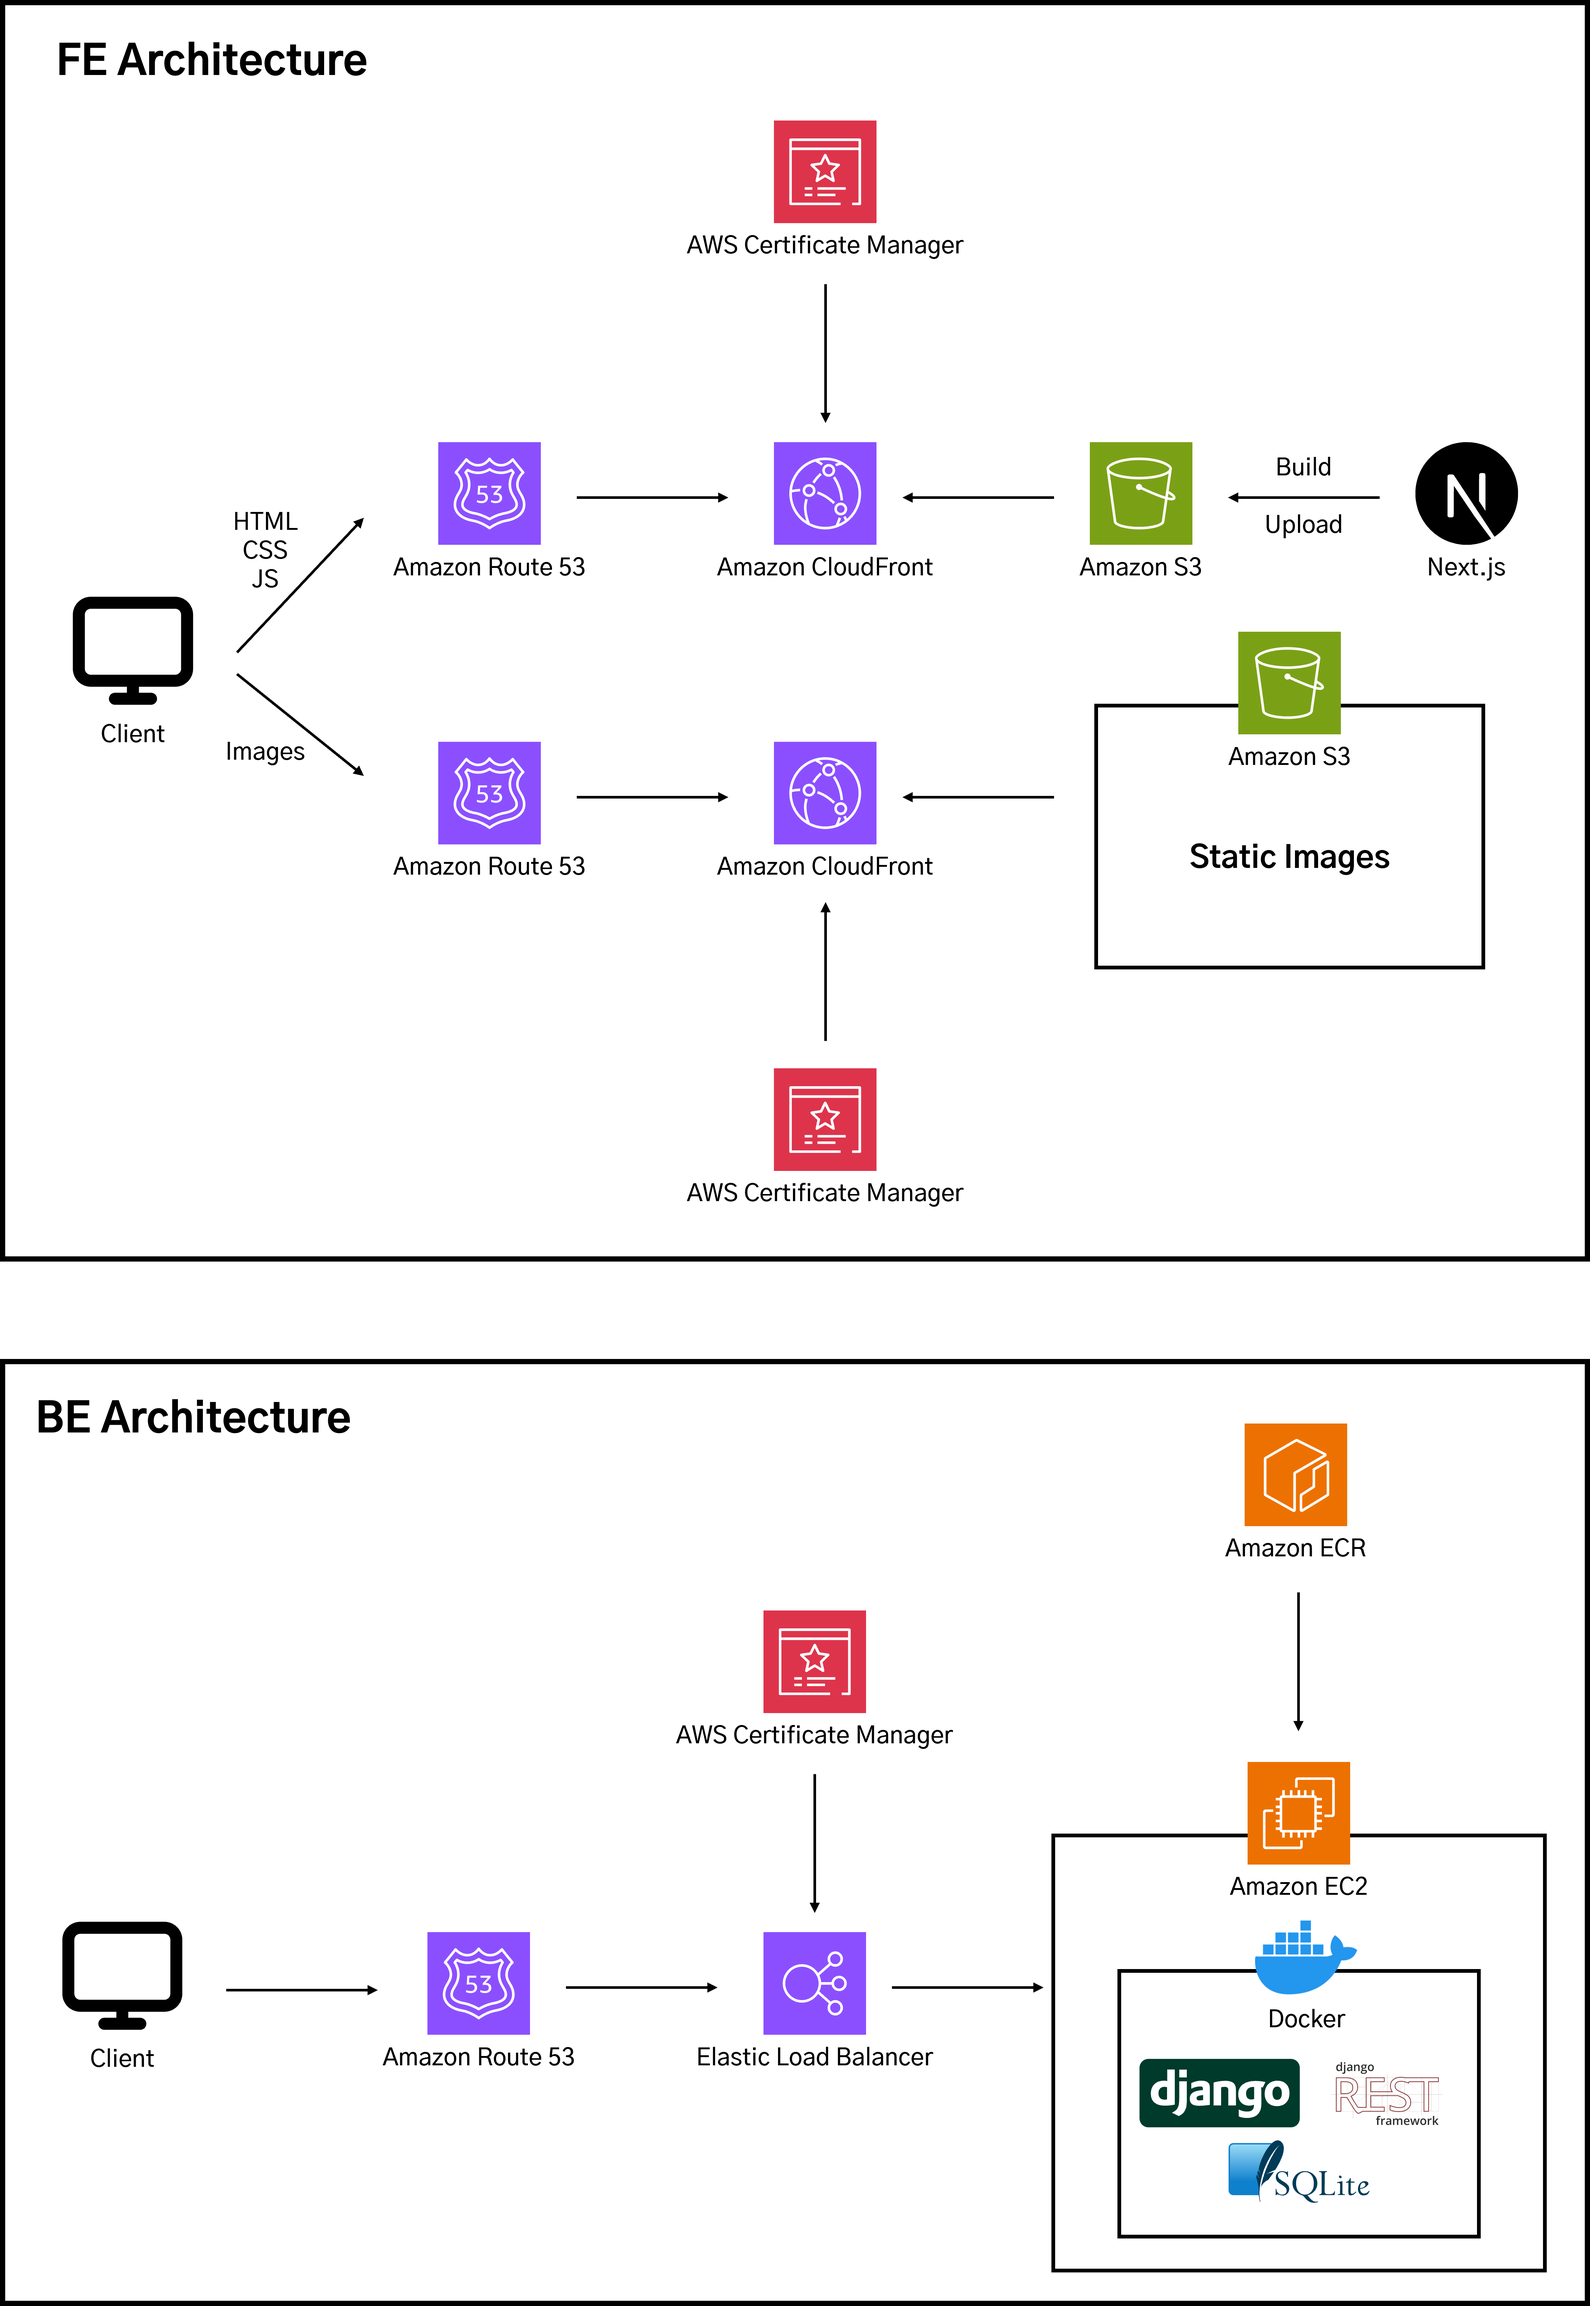
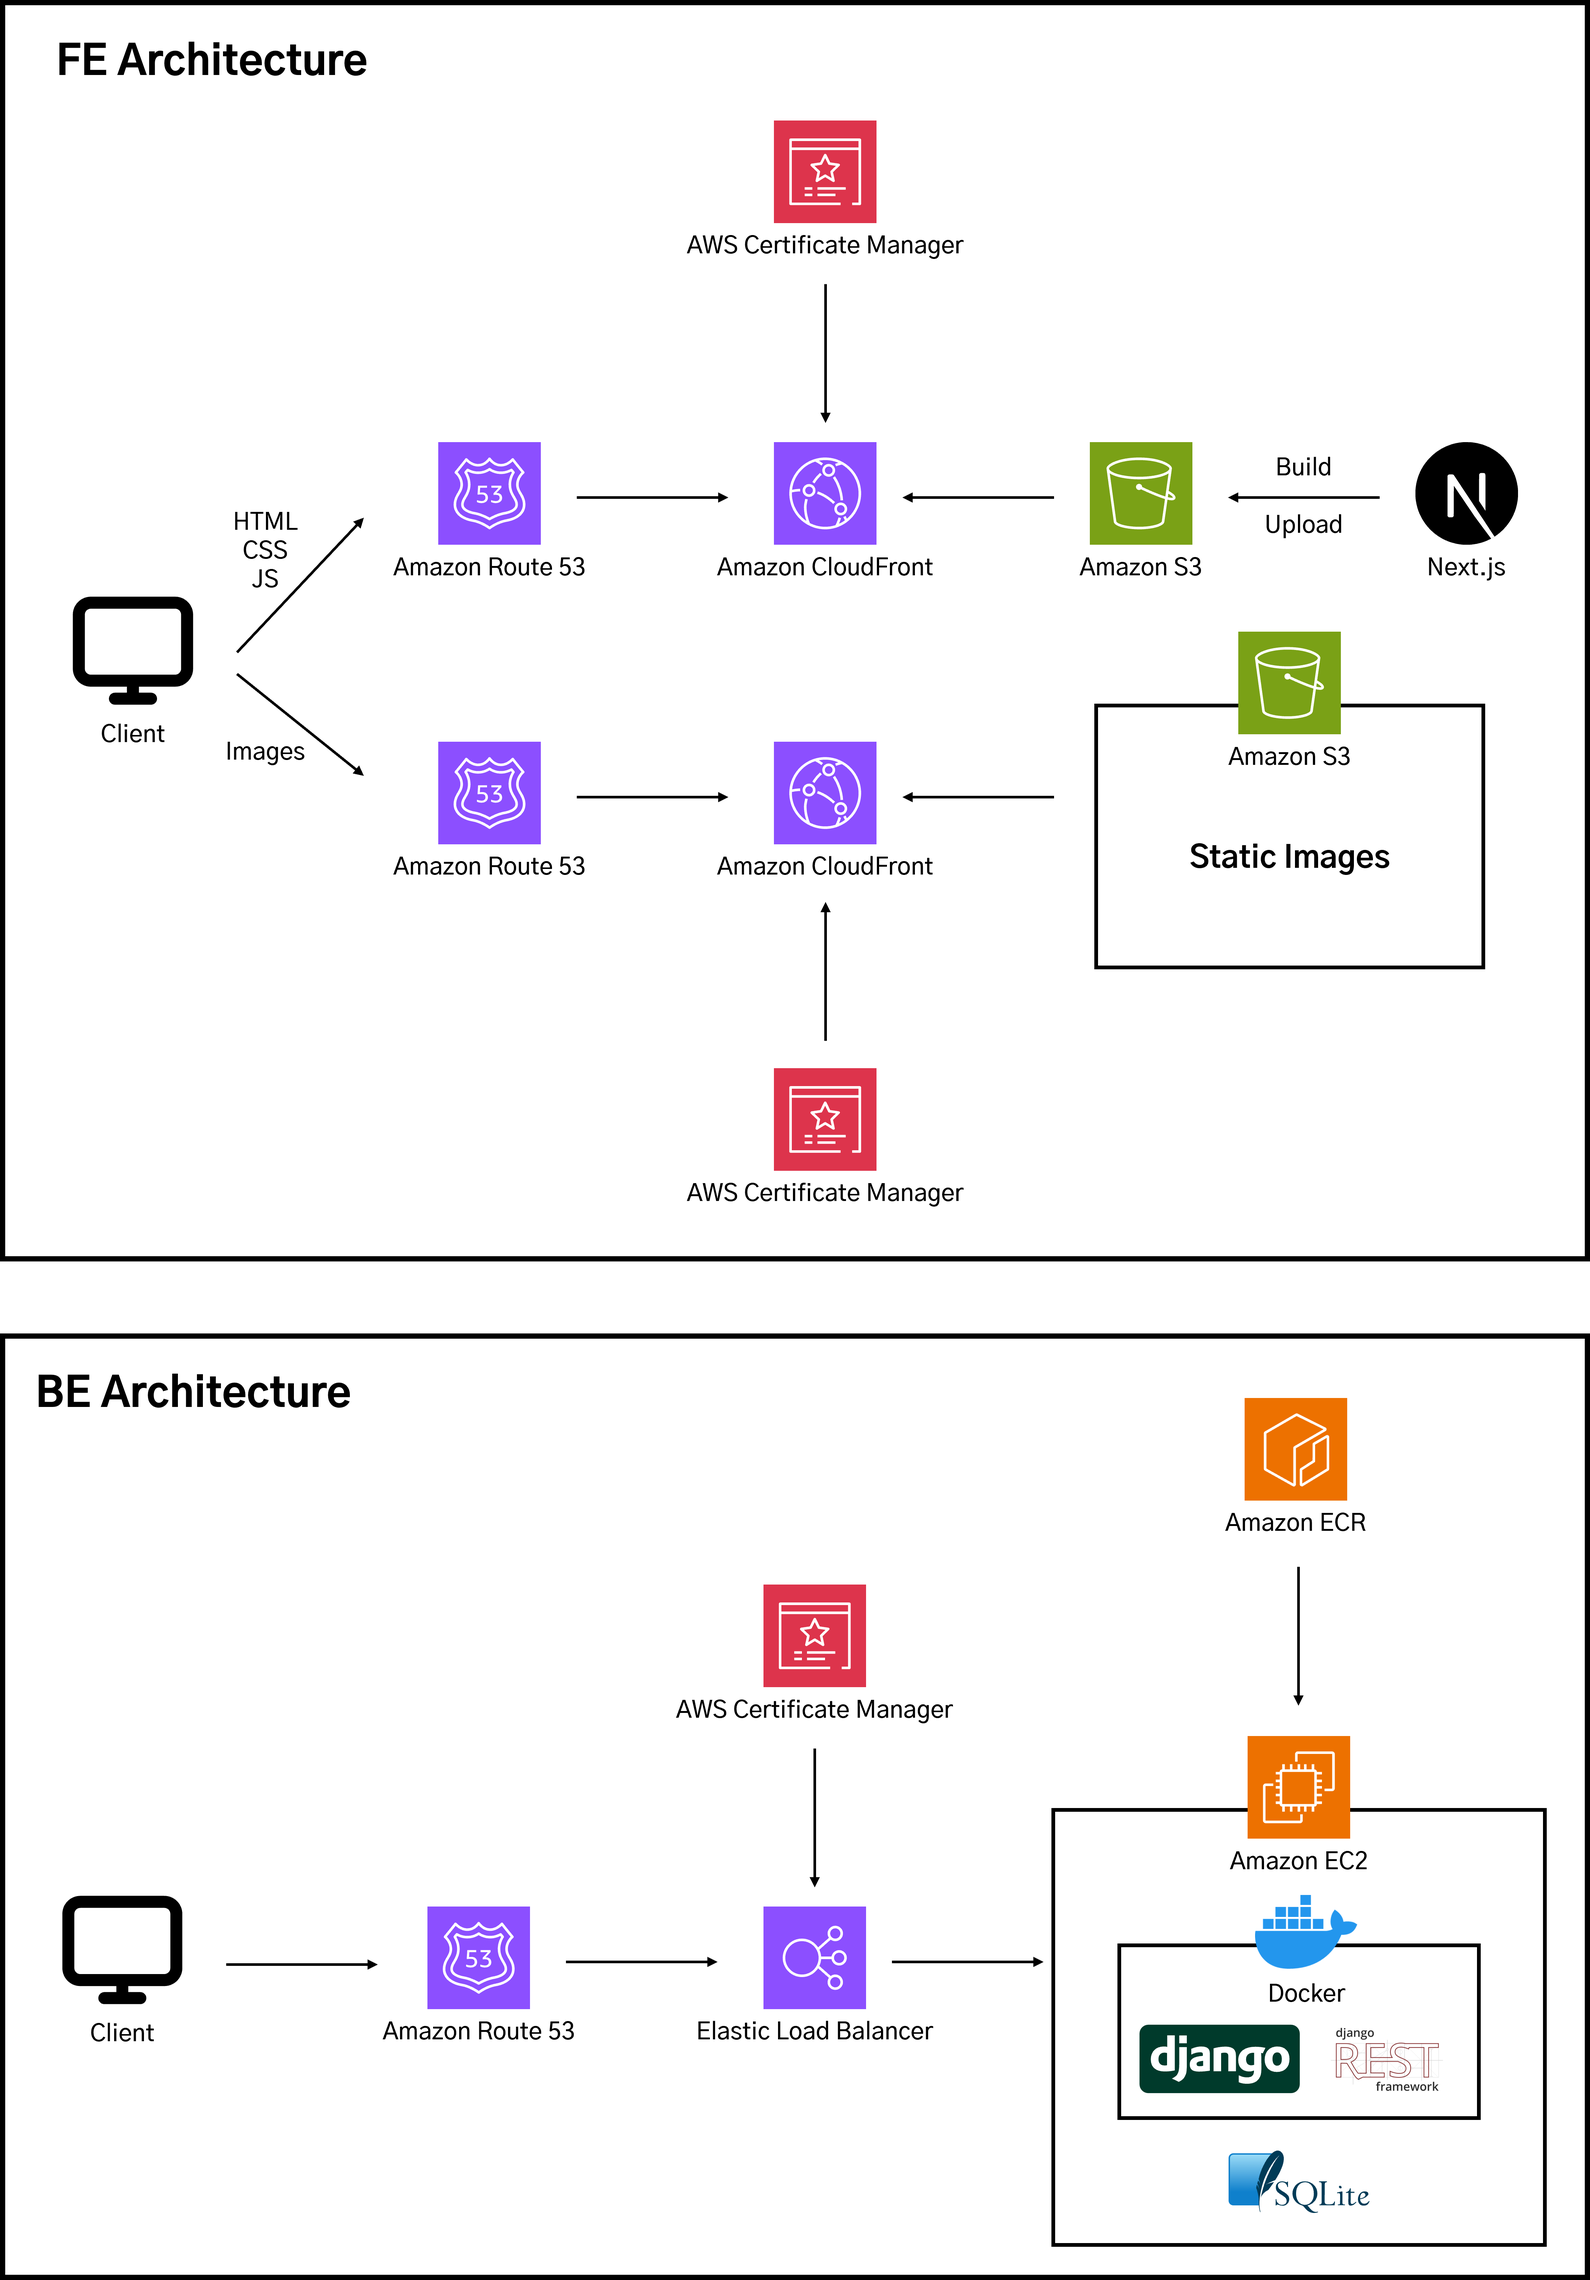
nutrition specs architecture 그림에 docker 추가. 2

diff --git a/constants/data.js b/constants/data.js
@@ -73,14 +73,7 @@ export const PROJECTS = [
     type: "Personal Project",
     period: "Jun. 2024 – Jul. 2024",
     link: "https://www.nutrition-specs.com/ice-cream",
-    techStack: [
-      "Next.js",
-      "Django",
-      "SQLite",
-      "Amazon Web Services (AWS)",
-      "Selenium",
-      "OpenAI API",
-    ],
+    techStack: ["Next.js", "Django", "SQLite", "Docker", "Amazon Web Services (AWS)", "OpenAI API"],
     imgSrcs: ["./assets/Projects - Nutrition Specs (Architecture).png"],
     description: [
       "This project was developed independently by me.",
